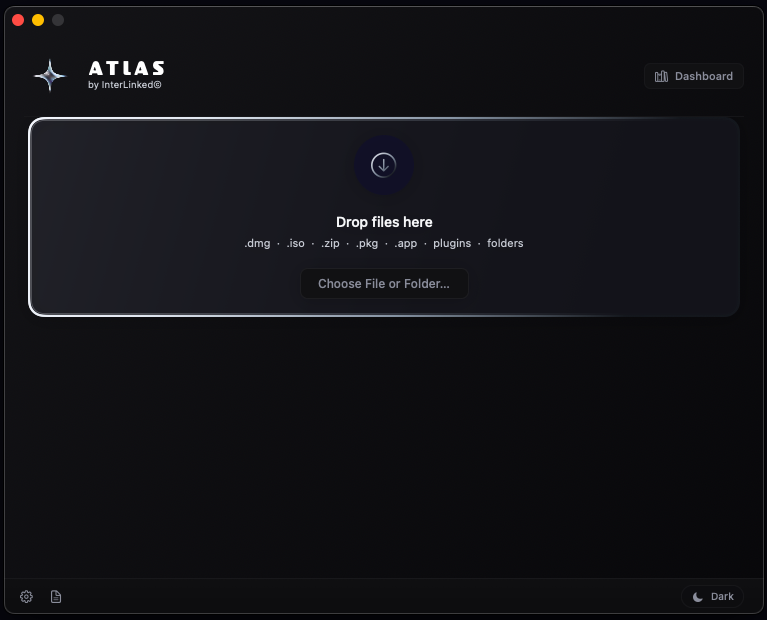
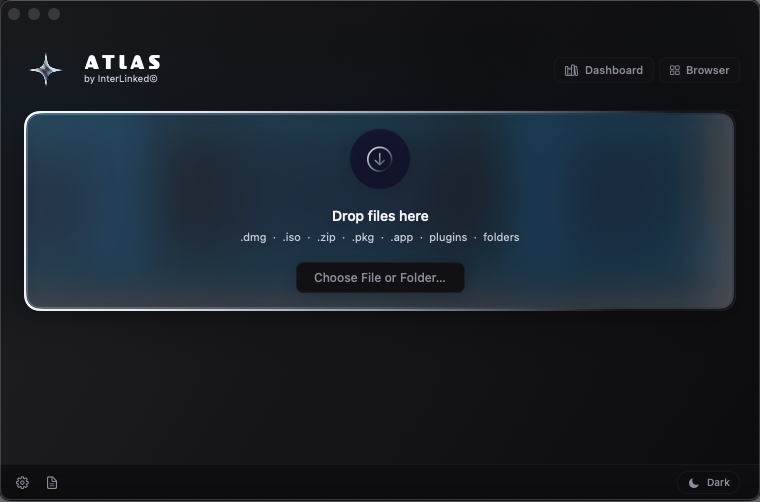
Add ATLAS Browser to landing page Features; update app-window screenshots (#1)
Claude-Session: https://claude.ai/code/session_01VoYHcxeYFQuGdwN7oZfBjn

diff --git a/app/atlas/page.tsx b/app/atlas/page.tsx
@@ -28,6 +28,10 @@ const FEATURES: Record<string, { title: string; body: string }> = {
     title: 'Product Format Management',
     body: 'Plugins can come in several formats — AU, VST, VST3, AAX, and more. ATLAS keeps track of which formats of a product are installed and where, so you always know the status of each format instead of hunting through system folders yourself.',
   },
+  browser: {
+    title: 'ATLAS Browser™',
+    body: 'Discover plugins, apps, and sample content from trusted developers — all in one place inside ATLAS. Browse by category or brand, see details for each product, and get sent straight to the developer’s own page to download it. ATLAS never hosts the files itself.',
+  },
 }
 
 const FEATURE_TABS: { key: string; label: string }[] = [
@@ -37,6 +41,7 @@ const FEATURE_TABS: { key: string; label: string }[] = [
   { key: 'recovery-kit', label: 'ATLAS Recovery Kit™' },
   { key: 'cleaner', label: 'ATLAS Cleaner™' },
   { key: 'formats', label: 'Product Format Management' },
+  { key: 'browser', label: 'ATLAS Browser (NEW)' },
 ]
 
 const PLAN_BULLETS = [
